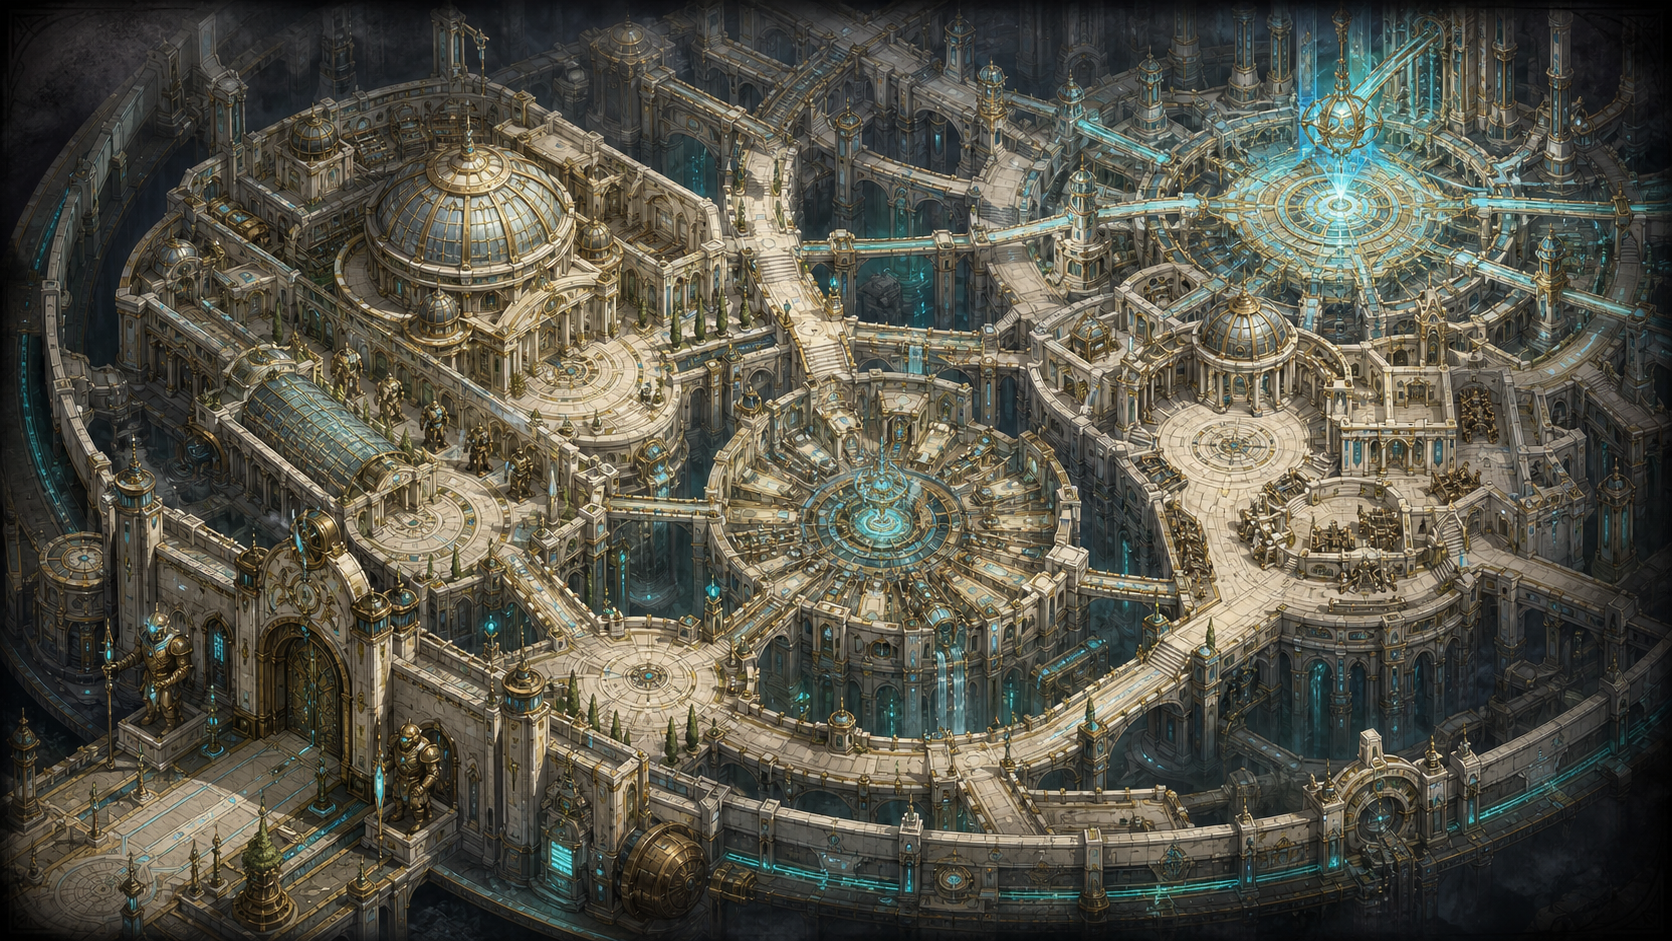
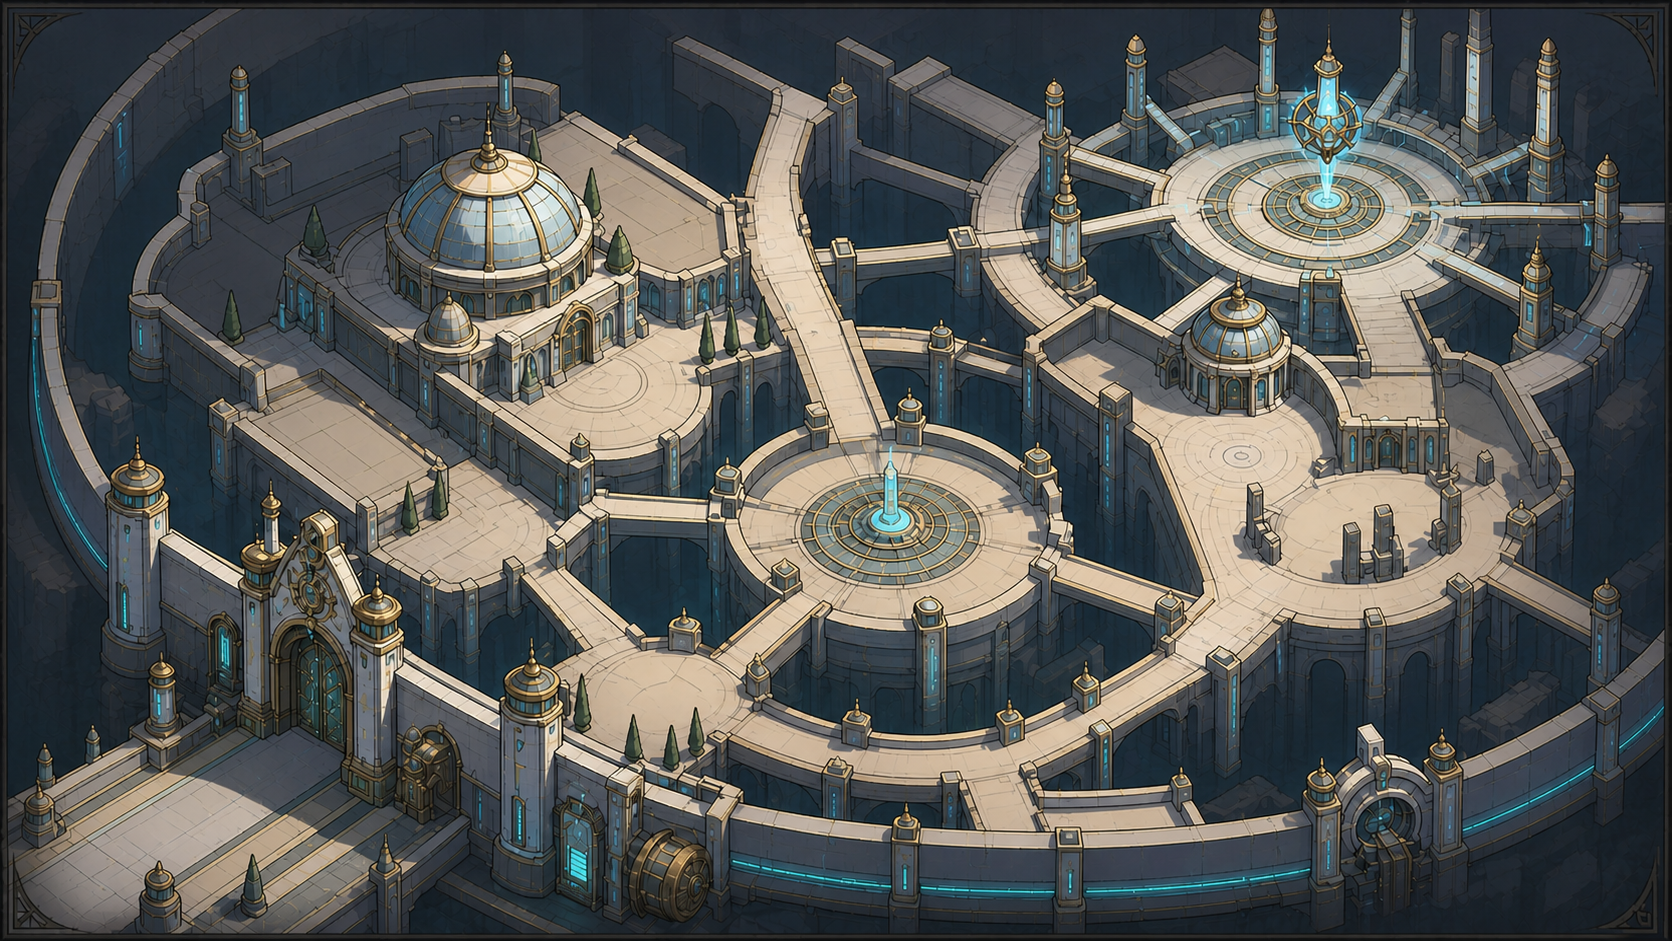
Updated all three campaign maps with simplified “Ink and Cell” artwork while preserving mission routes, landmark positions, and campaign logic: [Act I](/mnt/e/coding/Heaven Strike/assets/operations-map-act-1-reclamation.png) [Act II](/mnt/e/coding/Heaven Strike/assets/operations-map-act-2-crisis.png

diff --git a/assets/IMAGEPROMPTS.md b/assets/IMAGEPROMPTS.md
@@ -39,6 +39,40 @@ distinct ages and silhouettes, a cohesive brass/teal/coral palette, flat
 magenta backgrounds, and no text, logos, known characters, or franchise motifs.
 The same builder extracts transparent portraits into `assets/dialogue/portraits/`.
 
+## Campaign operations maps
+
+The three Act maps in `assets/operations_maps/original_sources/` were generated
+as original 1672x941 environment illustrations, without external image
+references. The existing map layouts were used only as project-owned edit
+targets so their geography, landmark positions, negative space, and campaign
+route logic would remain stable.
+
+Their shared brief was:
+
+> A deliberately simplified, cel-shaded ink-and-gouache operations map with
+> confident varied dark contours, broad opaque matte color shapes, two or three
+> crisp value groups, restrained dry-brush texture, sparse internal linework,
+> and five large readable industrial-fantasy landmark silhouettes; pale enamel,
+> silver steel, antique brass, muted earth, and restrained cyan power light;
+> broad quiet terrain behind mission buttons and labels; roughly one fifth the
+> visual detail of a painted environment; no mission nodes, route overlays,
+> text, people, logos, or watermark.
+
+Each Act preserved its authored progression:
+
+- Act I: relay excavation, salvage arena, tented settlement, monumental bridge,
+  and upper-right Sanctuary along a lower-left to upper-right frontier route.
+- Act II: coast and arena, circular excavation, civic highlands, amber industrial
+  core, and the fortified cyan Gate of Caelis across five crisis regions.
+- Act III: outer gate, Imperial Archive, Conductor Vault, Civic Core, and radiant
+  Source linked by the broad circular platforms and bridges of Caelis.
+
+Regenerate the runtime copies with:
+
+```bash
+./tools/godot-headless.sh --script res://tools/build_operations_map_art.gd
+```
+
 ## Adding art
 
 1. Write a project-specific visual brief and record it here.
